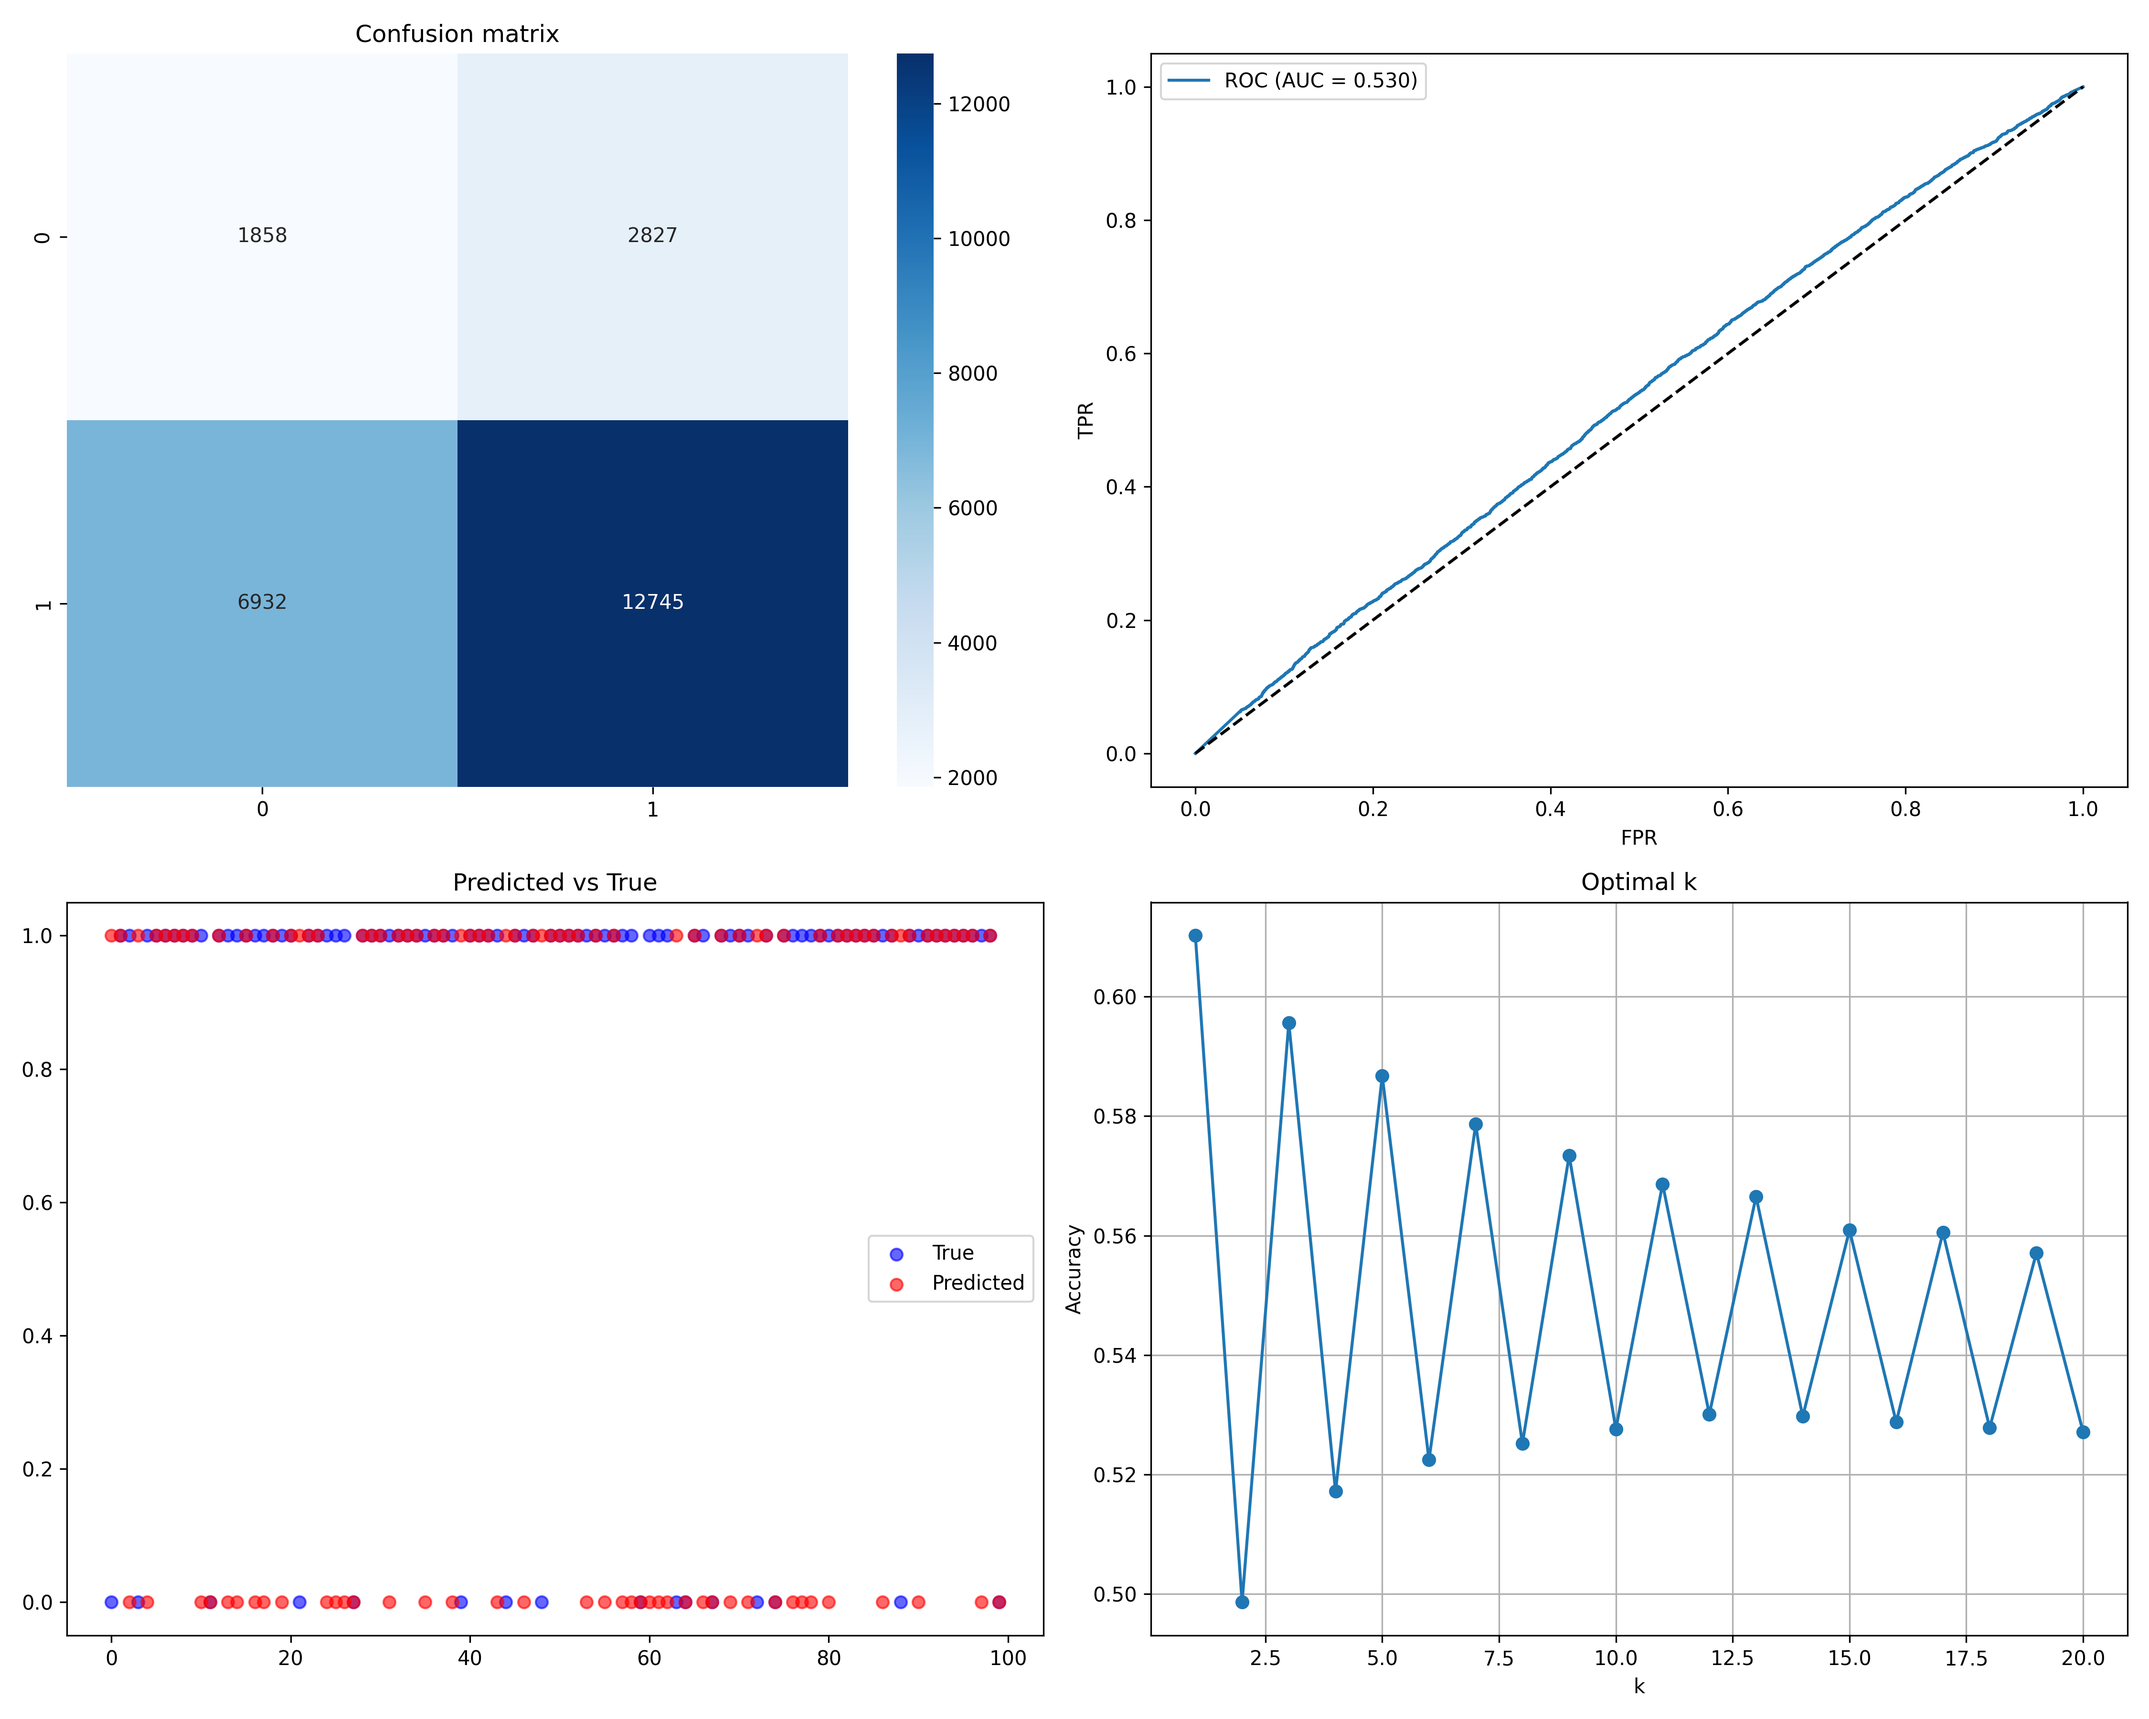
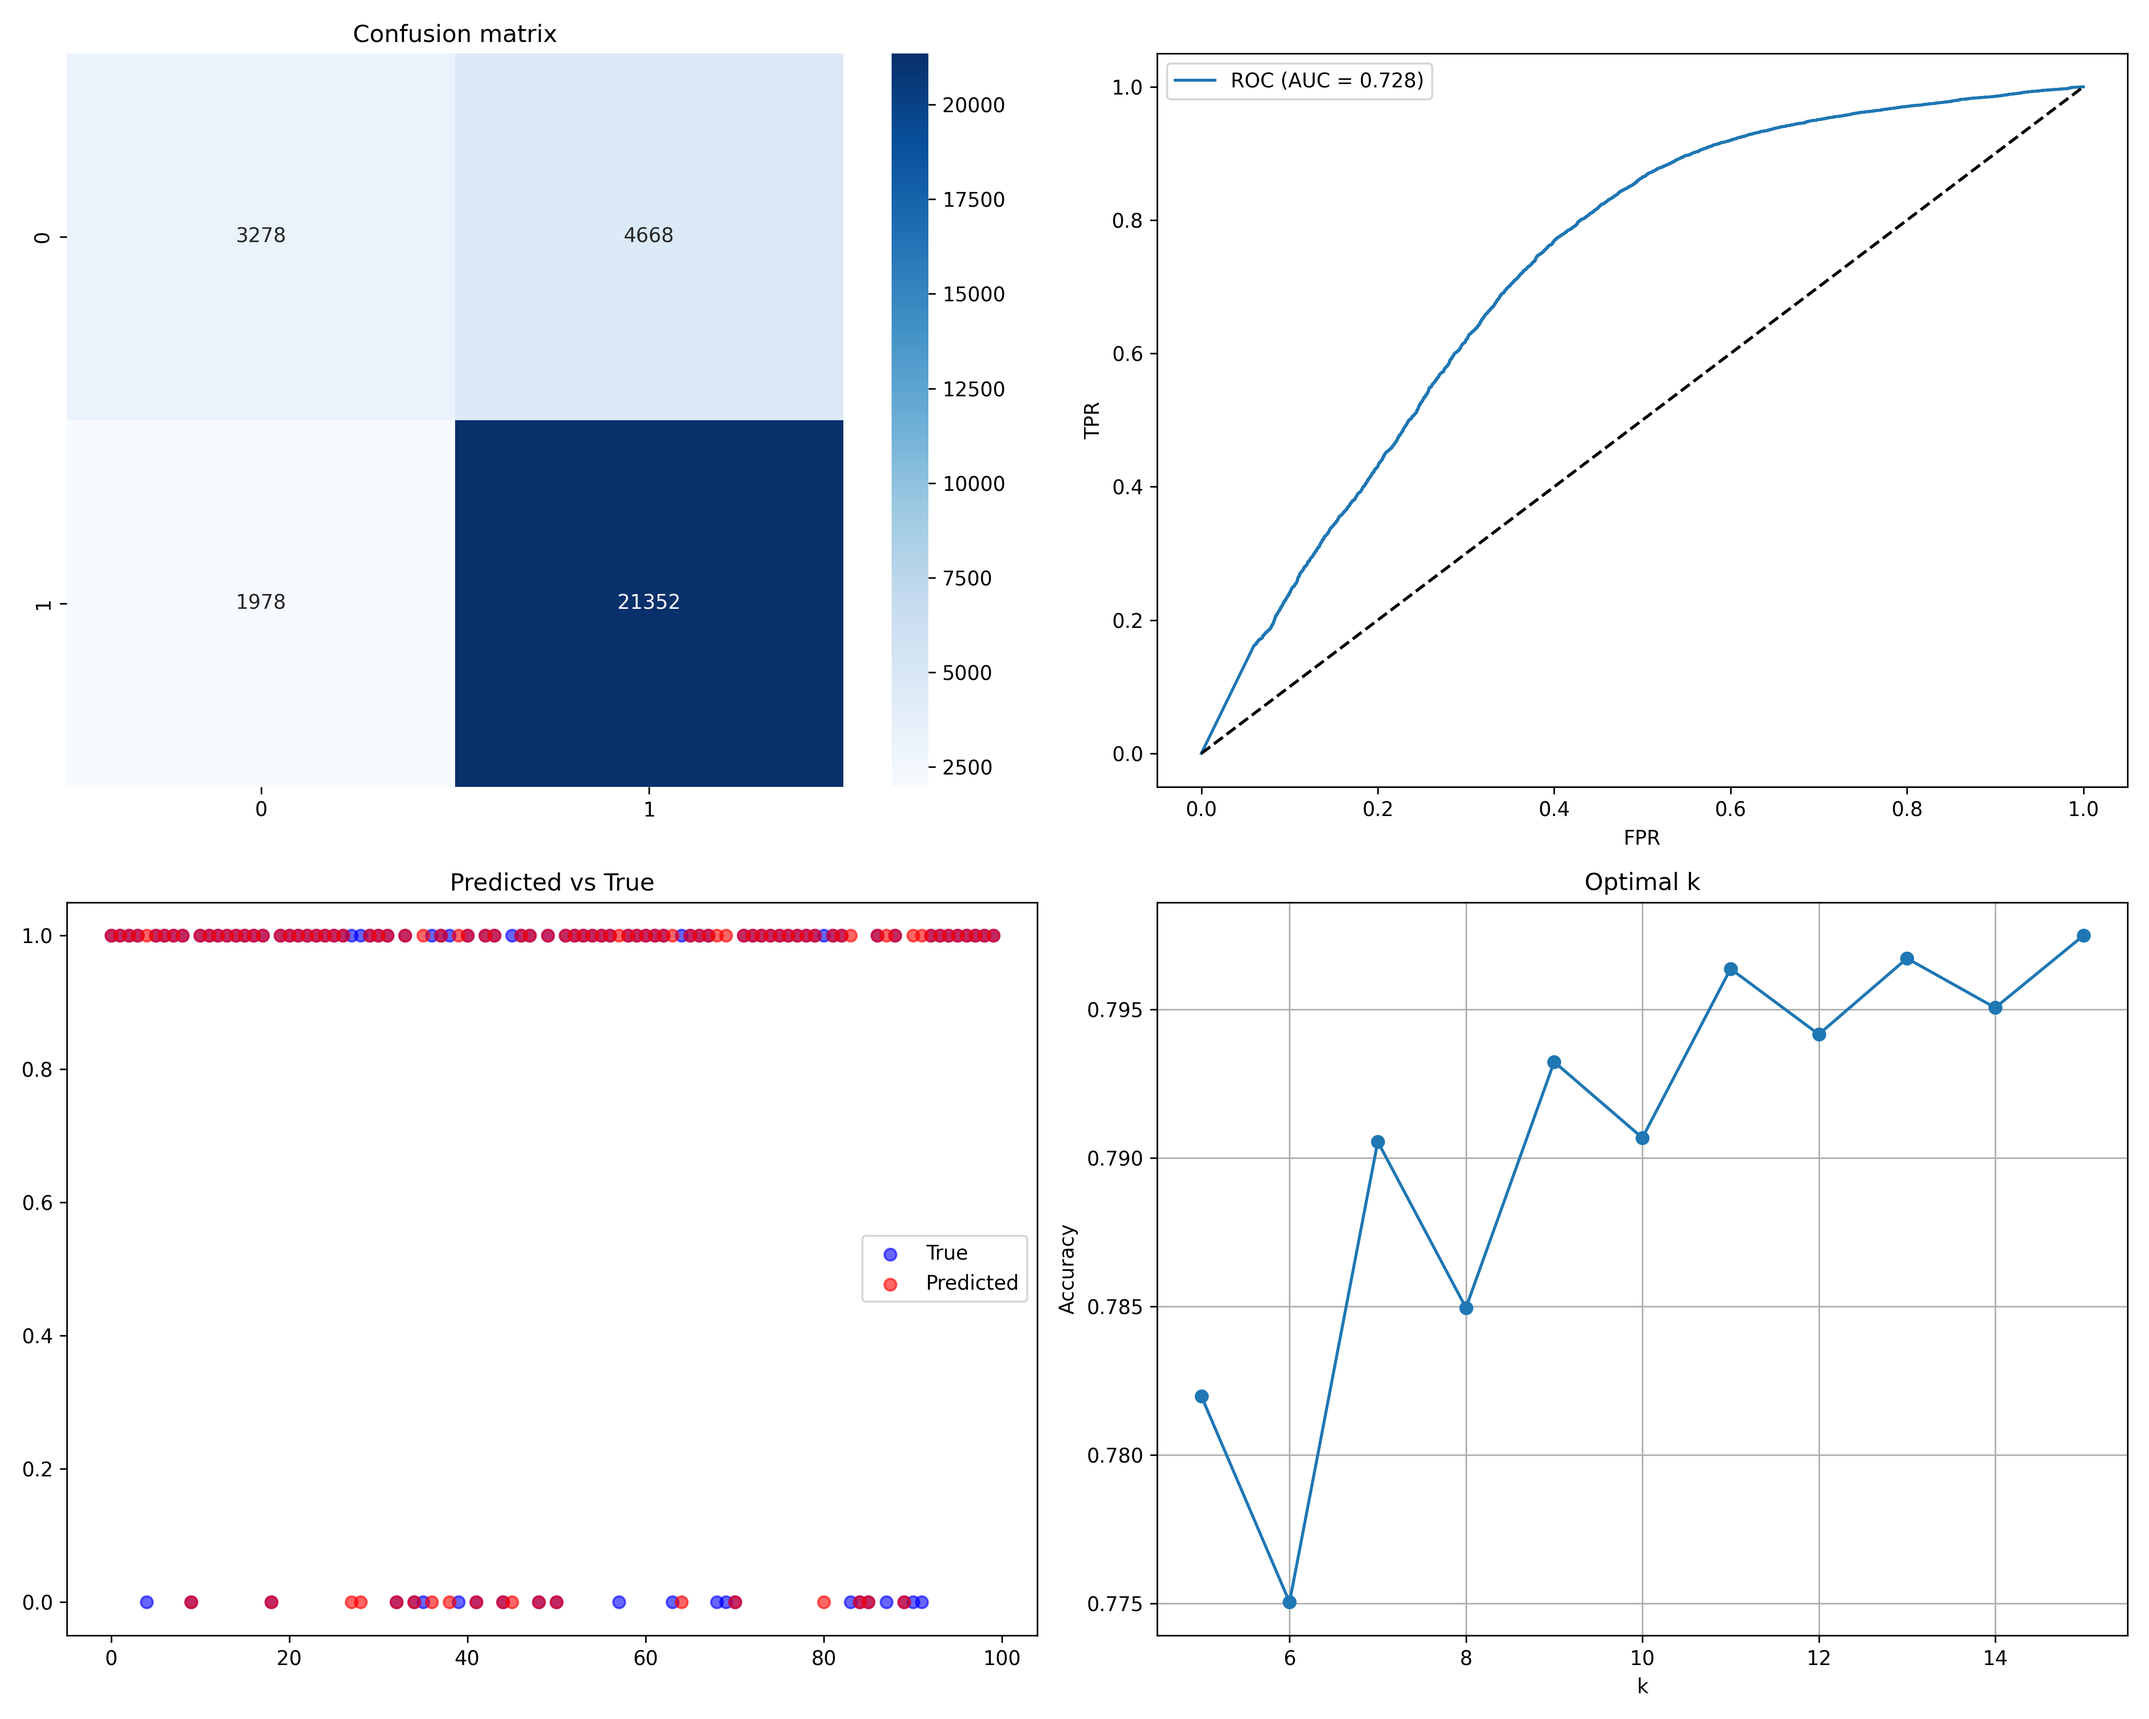
Add files via upload

diff --git a/Analysis.C b/Analysis.C
@@ -3,7 +3,7 @@
 #include <TStyle.h>
 #include <TCanvas.h>
 using namespace std;
-void Analysis::Topocluster(TLorentzVector particle, TH1D* Count, TH1D* Perp, TH1D* FVarible, TH1D* EMCal)
+void Analysis::Topocluster(TLorentzVector particle, TH1D* Count, TH1D* Perp, TH1D* FVariableHist, TH1D* EMCal, float &FVariable, float &EMprop)
 {
    int topo_count=0;
    double pt=5;
@@ -33,8 +33,16 @@ void Analysis::Topocluster(TLorentzVector particle, TH1D* Count, TH1D* Perp, TH1
    
    if(id!=-1)
    {
-      FVarible->Fill(topo_cluster_pt->at(id)/particle.Perp());
-      EMCal->Fill(topo_cluster_EM_prob->at(id));
+      
+      FVariable=topo_cluster_pt->at(id)/particle.Perp();
+      EMprop=topo_cluster_EM_prob->at(id);
+      FVariableHist->Fill(FVariable);
+      EMCal->Fill(EMprop);
+   }
+   else 
+   {
+      FVariable=-1;
+      EMprop=-1;
    }
 }
 
@@ -47,6 +55,8 @@ void Analysis::Loop()
    float PixelTRTHits;
    float PixeldEdX; 
    float PixelSCTHits; 
+   float FVariable;
+   float EMprop;
    bool  IsMuon;
 
    TFile *file = new TFile("MLData.root", "RECREATE");
@@ -56,6 +66,8 @@ void Analysis::Loop()
    MLDataTree->Branch("track_TRTHits", &PixelTRTHits, "track_PixelTRTHits/F");
    MLDataTree->Branch("track_PixeldEdX", &PixeldEdX, "track_PixeldEdX/F");
    MLDataTree->Branch("track_SCTHits", &PixelSCTHits, "track_PixelSCTHits/F");
+   MLDataTree->Branch("Cal_FVariable", &FVariable, "Cal_FVariable/F");
+   MLDataTree->Branch("Cal_EMprop", &EMprop, "Cal_EMprop/F");
    MLDataTree->Branch("IsMuon", &IsMuon, "IsMuon/B");
 
    Long64_t nentries = fChain->GetEntriesFast();
@@ -176,13 +188,6 @@ void Analysis::Loop()
             
             if(elctroncheck && dipartic.M()<3)
             {
-               PixelHits=track_PixelHits->at(1);
-               PixelTRTHits=track_TRTHits->at(1);
-               PixeldEdX=track_PixeldEdX->at(1);
-               PixelSCTHits=track_SCTHits->at(1);
-               IsMuon=0;
-               MLDataTree->Fill();
-
                H_ElPixeldEdX->Fill(track_PixeldEdX->at(1));
                H_ElPixelHits->Fill(track_PixelHits->at(1));
                H_ElPixelSCTHits->Fill(track_SCTHits->at(1));
@@ -193,7 +198,15 @@ void Analysis::Loop()
                ElectronPt->Fill(Electron.Pt());
                ElectronPhi->Fill(Electron.Phi());
                DiMassEl->Fill(dipartic.M());
-               Topocluster(Electron,CountElec,PerpElec,FElec,EMElec);
+               
+               Topocluster(Electron,CountElec,PerpElec,FElec,EMElec,FVariable, EMprop);
+
+               PixelHits=track_PixelHits->at(1);
+               PixelTRTHits=track_TRTHits->at(1);
+               PixeldEdX=track_PixeldEdX->at(1);
+               PixelSCTHits=track_SCTHits->at(1);
+               IsMuon=0;
+               MLDataTree->Fill();
 
             }
             if(!elctroncheck && dipartic.M()>2.9 )
@@ -201,12 +214,6 @@ void Analysis::Loop()
                for(int i=0;i<2;i++)
                {
                   Muon[i]=t[i];
-                  PixelHits=track_PixelHits->at(i);
-                  PixelTRTHits=track_TRTHits->at(i);
-                  PixeldEdX=track_PixeldEdX->at(i);
-                  PixelSCTHits=track_SCTHits->at(i);
-                  IsMuon=1;
-                  MLDataTree->Fill();
 
                   H_MuPixeldEdX->Fill(track_PixeldEdX->at(i));
                   H_MuPixelHits->Fill(track_PixelHits->at(i));
@@ -217,7 +224,14 @@ void Analysis::Loop()
                   MuonEta->Fill(Muon[i].Eta());
                   MuonPt->Fill(Muon[i].Pt());
                   MuonPhi->Fill(Muon[i].Phi());
-                  Topocluster(Muon[i],CountMuon,PerpMuon,FMuon,EMMuon);
+                  Topocluster(Muon[i],CountMuon,PerpMuon,FMuon,EMMuon, FVariable, EMprop);
+
+                  PixelHits=track_PixelHits->at(i);
+                  PixelTRTHits=track_TRTHits->at(i);
+                  PixeldEdX=track_PixeldEdX->at(i);
+                  PixelSCTHits=track_SCTHits->at(i);
+                  IsMuon=1;
+                  MLDataTree->Fill();
                }
                DiMassMu->Fill(dipartic.M());
             }              

diff --git a/PyGymRF.py b/PyGymRF.py
@@ -1,0 +1,87 @@
+import uproot
+import pandas as pd
+import numpy as np
+import matplotlib.pyplot as plt
+from sklearn.model_selection import train_test_split
+from sklearn.preprocessing import StandardScaler
+from sklearn.ensemble import RandomForestClassifier  
+from sklearn.metrics import accuracy_score, classification_report, confusion_matrix
+
+import seaborn as sns
+
+chunks = []
+with uproot.open("MLData.root") as f:
+    df = f["MLDataTree"].arrays(library="pd") 
+
+X = df[['track_PixelHits', 'track_TRTHits', 'track_SCTHits', 'track_PixeldEdX', 'Cal_FVariable' , 'Cal_EMprop']]  
+y = df['IsMuon'] 
+
+X_train, X_test, y_train, y_test = train_test_split(X, y, test_size=0.3, random_state=42, stratify=y)
+scaler = StandardScaler()
+X_train = scaler.fit_transform(X_train)
+X_test = scaler.transform(X_test)
+
+
+
+rf = RandomForestClassifier(n_estimators=200, max_depth=10, min_samples_split=10, 
+                           random_state=42, n_jobs=-1)
+rf.fit(X_train, y_train)
+y_pred = rf.predict(X_test)
+print(f"Accuracy: {accuracy_score(y_test, y_pred):.3f}")
+
+fig, axes = plt.subplots(2, 2, figsize=(15, 12))
+
+
+cm = confusion_matrix(y_test, y_pred)
+sns.heatmap(cm, annot=True, fmt='d', ax=axes[0,0], cmap='Blues')
+axes[0,0].set_title('Confusion matrix (Random Forest)')
+
+
+from sklearn.metrics import roc_curve, auc
+if len(np.unique(y)) == 2:
+    fpr, tpr, _ = roc_curve(y_test, rf.predict_proba(X_test)[:,1])
+    auc_score = auc(fpr, tpr)
+    axes[0,1].plot(fpr, tpr, label=f'ROC (AUC = {auc_score:.3f})')
+    axes[0,1].plot([0,1],[0,1], 'k--')
+    axes[0,1].set_xlabel('FPR'); axes[0,1].set_ylabel('TPR')
+    axes[0,1].legend()
+
+
+axes[1,0].scatter(range(100), y_test[:100], c='blue', alpha=0.6, label='True')
+axes[1,0].scatter(range(100), y_pred[:100], c='red', alpha=0.6, label='Predicted')
+axes[1,0].legend(); axes[1,0].set_title('Predicted vs True')
+
+
+importances = rf.feature_importances_
+features = ['PixelHits', 'TRTHits', 'SCTHits', 'PixeldEdX', 'Cal_FVar', 'Cal_EMprop']
+axes[1,1].bar(features, importances)
+axes[1,1].set_title('Feature Importance'); axes[1,1].tick_params(axis='x', rotation=45)
+
+plt.tight_layout()
+plt.savefig("Plots/rf_info.png", dpi=300)
+plt.show()
+
+
+scores = rf.predict_proba(X_test)[:, 1]
+signal_scores = scores[y_test == 1]
+bkg_scores    = scores[y_test == 0]
+
+
+bins = np.linspace(0, 1, 25)
+plt.figure(figsize=(8,6))
+plt.hist(bkg_scores, bins=bins, density=True, histtype='stepfilled', alpha=0.6,
+         color='red', label='Electron', hatch='//')
+plt.hist(signal_scores, bins=bins, density=True, histtype='stepfilled', alpha=0.4,
+         color='blue', label='Muon')
+
+plt.xlabel('RF response')
+plt.ylabel('(1/N) dN/dx')
+plt.title('Random Forest response distribution')
+plt.legend()
+plt.tight_layout()
+plt.savefig("Plots/rf_score_.png", dpi=300)
+plt.show()
+
+print("\nReport:")
+print(classification_report(y_test, y_pred))
+print(f"\nBest variables:\n{pd.Series(importances, index=features).sort_values(ascending=False)}")

diff --git a/PyGymKNN.py b/PyGymKNN.py
@@ -1,0 +1,96 @@
+import uproot
+import pandas as pd
+import numpy as np
+import matplotlib.pyplot as plt
+from sklearn.model_selection import train_test_split
+from sklearn.preprocessing import StandardScaler
+from sklearn.neighbors import KNeighborsClassifier
+from sklearn.metrics import accuracy_score, classification_report, confusion_matrix
+import seaborn as sns
+
+
+chunks = []
+with uproot.open("MLData.root") as f:
+    df = f["MLDataTree"].arrays(library="pd")  
+
+X = df[['track_PixelHits', 'track_TRTHits', 'track_SCTHits', 'track_PixeldEdX', 'Cal_FVariable' , 'Cal_EMprop']]  
+y = df['IsMuon'] 
+
+X_train, X_test, y_train, y_test = train_test_split(X, y, test_size=0.2, random_state=42, stratify=y)
+scaler = StandardScaler()
+X_train = scaler.fit_transform(X_train)
+X_test = scaler.transform(X_test)
+
+
+
+knn = KNeighborsClassifier(n_neighbors=13, weights='distance')
+knn.fit(X_train, y_train)
+y_pred = knn.predict(X_test)
+print(f"Accuracy: {accuracy_score(y_test, y_pred):.3f}")
+
+
+fig, axes = plt.subplots(2, 2, figsize=(15, 12))
+
+
+cm = confusion_matrix(y_test, y_pred)
+sns.heatmap(cm, annot=True, fmt='d', ax=axes[0,0], cmap='Blues')
+axes[0,0].set_title('Confusion matrix')
+
+
+from sklearn.metrics import roc_curve, auc
+if len(np.unique(y)) == 2:
+    fpr, tpr, _ = roc_curve(y_test, knn.predict_proba(X_test)[:,1])
+    auc_score = auc(fpr, tpr)
+    axes[0,1].plot(fpr, tpr, label=f'ROC (AUC = {auc_score:.3f})')
+    axes[0,1].plot([0,1],[0,1], 'k--')
+    axes[0,1].set_xlabel('FPR'); axes[0,1].set_ylabel('TPR')
+    axes[0,1].legend()
+
+
+axes[1,0].scatter(range(100), y_test[:100], c='blue', alpha=0.6, label='True')
+axes[1,0].scatter(range(100), y_pred[:100], c='red', alpha=0.6, label='Predicted')
+axes[1,0].legend(); axes[1,0].set_title('Predicted vs True')
+
+
+k_range = range(5, 16)
+scores = []
+for k in k_range:
+    knn_k = KNeighborsClassifier(n_neighbors=k)
+    knn_k.fit(X_train, y_train)
+    scores.append(accuracy_score(y_test, knn_k.predict(X_test)))
+axes[1,1].plot(k_range, scores, 'o-')
+axes[1,1].set_xlabel('k'); axes[1,1].set_ylabel('Accuracy')
+axes[1,1].set_title('Optimal k'); axes[1,1].grid(True)
+plt.tight_layout()
+plt.savefig("Plots/knn_info.png", dpi=300)
+plt.show()
+
+
+scores = knn.predict_proba(X_test)[:, 1]
+
+
+signal_scores = scores[y_test == 1]
+bkg_scores    = scores[y_test == 0]
+
+
+bins = np.linspace(0, 1, 25)  
+
+plt.figure(figsize=(8,6))
+plt.hist(bkg_scores, bins=bins, density=True,
+         histtype='stepfilled', alpha=0.6,
+         color='red', label='Electron', hatch='//')
+plt.hist(signal_scores, bins=bins, density=True,
+         histtype='stepfilled', alpha=0.4,
+         color='blue', label='Muon')
+
+plt.xlabel('kNN response')
+plt.ylabel('(1/N) dN/dx')
+plt.title('kNN response distribution')
+plt.legend()
+plt.tight_layout()
+plt.savefig("Plots/knn_score.png", dpi=300)
+plt.show()
+
+print("\nReport:")
+print(classification_report(y_test, y_pred))
+
